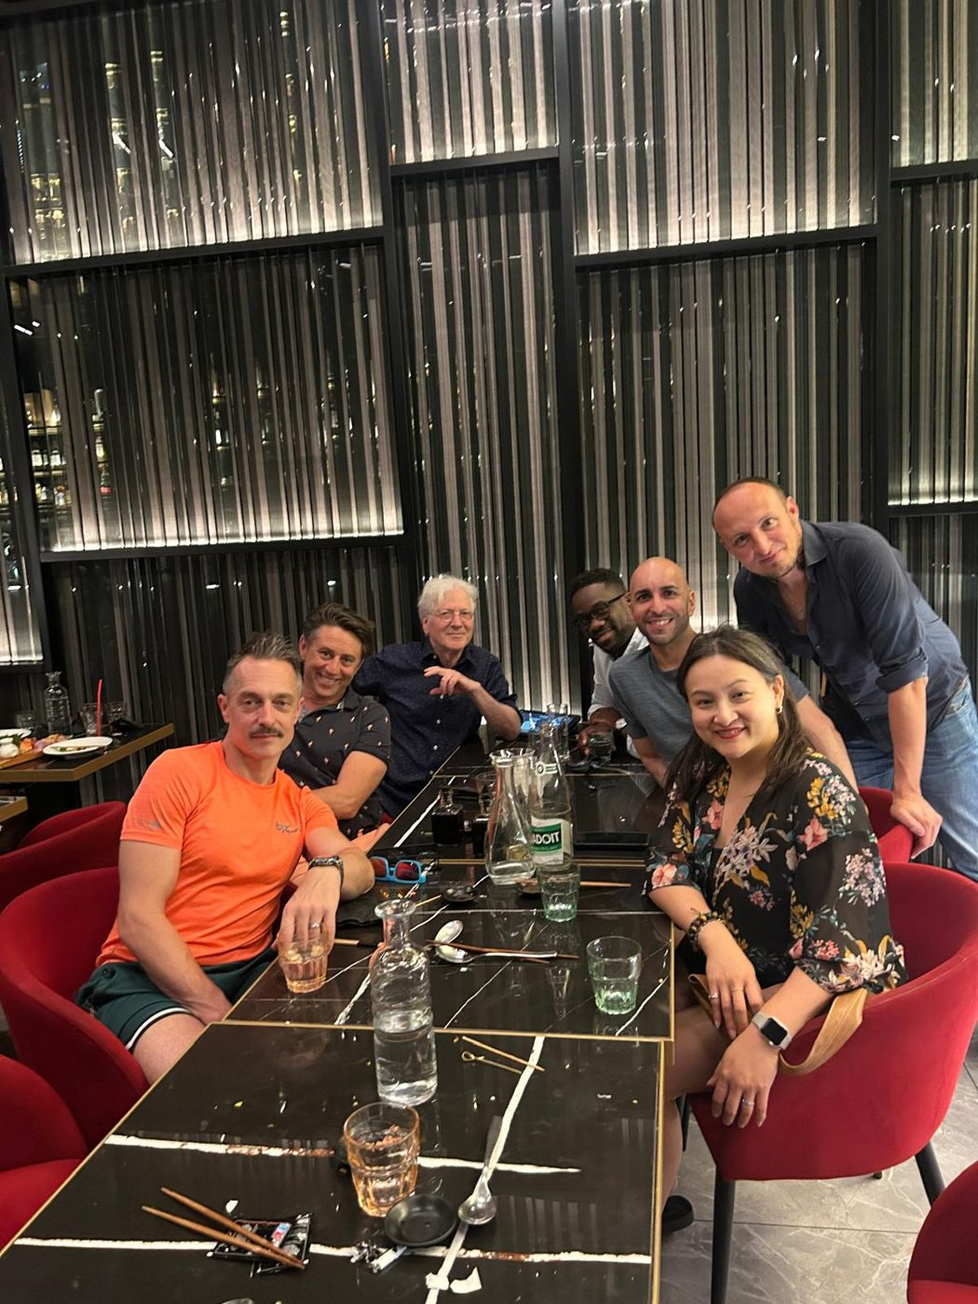
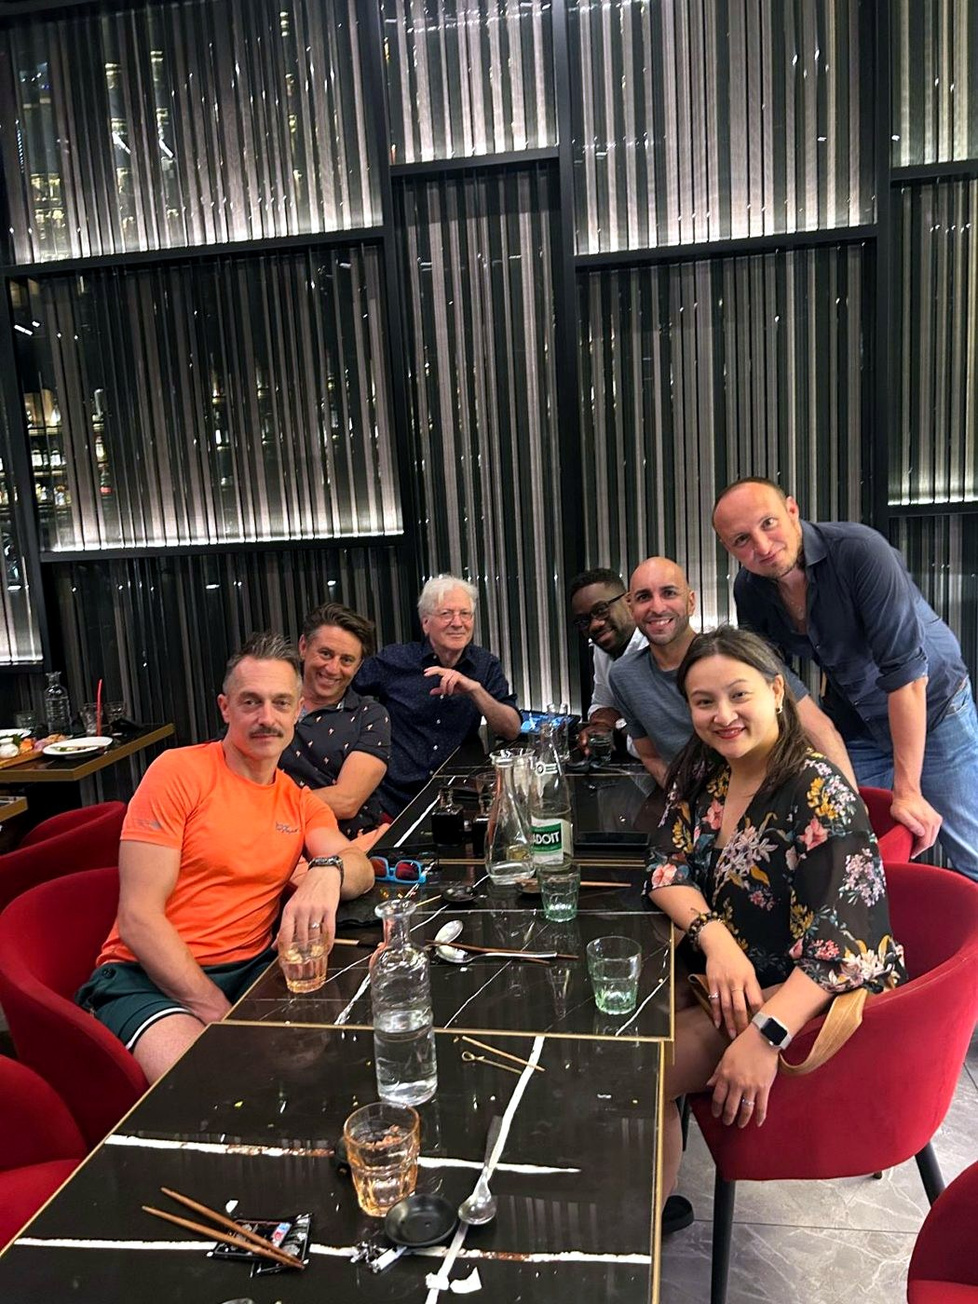
V4 : ouverture lisible, histoire en diaporama, citations corrigées, boîte à outils, photos retouchées

diff --git a/index.html b/index.html
@@ -20,7 +20,7 @@
   <link rel="icon" href="favicon.svg" type="image/svg+xml">
   <link rel="preconnect" href="https://fonts.googleapis.com">
   <link rel="preconnect" href="https://fonts.gstatic.com" crossorigin>
-  <link href="https://fonts.googleapis.com/css2?family=Fraunces:ital,opsz,wght@0,9..144,400;0,9..144,600;1,9..144,400&family=Inter:wght@400;500;600&display=swap" rel="stylesheet">
+  <link href="https://fonts.googleapis.com/css2?family=Fraunces:ital,opsz,wght,WONK@0,9..144,400,0;0,9..144,600,0;1,9..144,400,0&family=Inter:wght@400;500;600&display=swap" rel="stylesheet">
   <link rel="stylesheet" href="style.css">
 </head>
 <body>
@@ -43,21 +43,25 @@
   <main>
 
     <!-- Ouverture -->
-    <section class="hero-full">
-      <img class="hero-bg" src="img/notion/guiren.jpg" alt="Un dîner de l'Aftermind chez Guiren, janvier 2026" width="1600" height="1200">
-      <div class="hero-shade" aria-hidden="true"></div>
-      <div class="wrap hero-content">
-        <p class="eyebrow">Paris · depuis juin 2025 · sur invitation</p>
-        <h1>Un cercle privé d'entrepreneurs et de créateurs.</h1>
-        <p class="lead">On vient pour créer du lien, s'entraider et avancer ensemble. La confiance d'abord. Le business, s'il vient, vient après.</p>
-        <a class="next" href="#calendrier">
-          <span class="next-label">Le cercle revient · prochain dîner</span>
-          <span class="next-date">Jeudi 10 décembre 2026, 19&nbsp;h&nbsp;30</span>
-          <span class="next-note">Le lieu est donné aux membres dans le groupe.</span>
-        </a>
+    <section class="hero-v3">
+      <div class="wrap">
+        <div class="hero-v3-text reveal">
+          <p class="eyebrow">Paris · depuis juin 2025 · sur invitation</p>
+          <h1>Un cercle privé d'entrepreneurs et de créateurs.</h1>
+          <div class="hero-v3-row">
+            <p class="lead">On vient pour créer du lien, s'entraider et avancer ensemble. La confiance d'abord. Le business, s'il vient, vient après.</p>
+            <a class="next" href="#calendrier">
+              <span class="next-label">Le cercle revient · prochain dîner</span>
+              <span class="next-date">Jeudi 10 décembre 2026, 19&nbsp;h&nbsp;30</span>
+              <span class="next-note">Le lieu est donné aux membres dans le groupe.</span>
+            </a>
+          </div>
+        </div>
+        <figure class="hero-v3-photo reveal">
+          <img src="img/notion/guiren.jpg" alt="Un dîner de l'Aftermind chez Guiren, janvier 2026" width="1600" height="1200">
+          <figcaption>Chez Guiren, janvier 2026</figcaption>
+        </figure>
       </div>
-      <p class="hero-credit">Chez Guiren, janvier 2026</p>
-      <a class="hero-scroll" href="#histoire" aria-label="Descendre vers l'histoire"><span></span></a>
     </section>
 
     <!-- Chiffres -->
@@ -72,49 +76,56 @@
 
     <!-- Histoire -->
     <section id="histoire" class="block">
-      <div class="wrap two-col">
-        <div class="sticky-head reveal">
-          <p class="kicker">L'histoire</p>
-          <h2>Un test d'un mois, devenu un cercle.</h2>
-          <p class="muted">Quand on construit seul, on manque de gens à qui parler vraiment. L'Aftermind est né de ce constat.</p>
+      <div class="wrap">
+        <div class="story-head">
+          <div class="reveal">
+            <p class="kicker">L'histoire</p>
+            <h2>Un test d'un mois, devenu un cercle.</h2>
+          </div>
+          <div class="story-nav">
+            <button type="button" class="story-btn" data-dir="-1" aria-label="Précédent">‹</button>
+            <button type="button" class="story-btn" data-dir="1" aria-label="Suivant">›</button>
+          </div>
         </div>
-        <ol class="timeline">
-          <li class="reveal">
-            <span class="when">11 juin 2025</span>
-            <h3>Un message à 10 personnes</h3>
-            <p>« Un cercle restreint. 10 personnes. Une énergie unique. » Le cercle commence comme un test, pour un mois.</p>
-          </li>
-          <li class="reveal">
-            <span class="when">20 juin 2025</span>
-            <h3>La première soirée</h3>
-            <p>Un membre illusionniste ouvre son spectacle au groupe. On se rencontre enfin en vrai.</p>
-          </li>
-          <li class="reveal">
-            <span class="when">12 juillet 2025</span>
-            <h3>Le premier dîner</h3>
-            <p>Sept couverts, deux heures de table, et l'envie de recommencer.</p>
-          </li>
-          <li class="reveal">
-            <span class="when">Automne 2025</span>
-            <h3>L'entraide prend forme</h3>
-            <p>Un live chaque premier mercredi : on expose un blocage, le collectif répond. Un lieu de tournage trouvé en trente secondes, des mises en relation, des déclics.</p>
-          </li>
-          <li class="reveal">
-            <span class="when">12 mai 2026</span>
-            <h3>40 membres</h3>
-            <p>Des fondateurs, des auteurs, des coachs, des artistes. Chaque entrée se fait sur invitation.</p>
-          </li>
-          <li class="reveal">
-            <span class="when">24 juin 2026</span>
-            <h3>22 à table</h3>
-            <p>La plus grande soirée du cercle, pour un double anniversaire.</p>
-          </li>
-          <li class="reveal now">
-            <span class="when">10 décembre 2026</span>
-            <h3>Le retour</h3>
-            <p>Une règle simple : un dîner chaque deuxième jeudi du mois. La date est toujours connue à l'avance.</p>
-          </li>
-        </ol>
+        <div class="story" id="story" tabindex="0" aria-label="L'histoire du cercle, en diaporama">
+          <article class="slide">
+            <div class="slide-media"><div class="slide-mark"><svg viewBox="0 0 32 32" aria-hidden="true"><use href="#clover"/></svg></div></div>
+            <div class="slide-body"><span class="when">11 juin 2025</span><h3>Un message à 10 personnes</h3><p>«&nbsp;Un cercle restreint. 10 personnes. Une énergie unique.&nbsp;» Le cercle commence comme un test, pour un mois.</p></div>
+          </article>
+          <article class="slide">
+            <div class="slide-media"><img src="img/soirees/premiere-soiree-juin-2025.jpg" alt="" loading="lazy"></div>
+            <div class="slide-body"><span class="when">20 juin 2025</span><h3>La première soirée</h3><p>Un membre illusionniste ouvre son spectacle au groupe. On se rencontre enfin en vrai.</p></div>
+          </article>
+          <article class="slide">
+            <div class="slide-media"><img src="img/soirees/diner-juillet-2025.jpg" alt="" loading="lazy"></div>
+            <div class="slide-body"><span class="when">12 juillet 2025</span><h3>Le premier dîner</h3><p>Sept couverts, deux heures de table, et l'envie de recommencer.</p></div>
+          </article>
+          <article class="slide">
+            <div class="slide-media"><img src="img/soirees/tablee-septembre-2025.jpg" alt="" loading="lazy"></div>
+            <div class="slide-body"><span class="when">Septembre 2025</span><h3>Les tablées s'allongent</h3><p>Neuf, puis dix convives. Les tables sont composées pour que les bonnes personnes se rencontrent.</p></div>
+          </article>
+          <article class="slide">
+            <div class="slide-media"><img src="img/soirees/diner-octobre-2025.jpg" alt="" loading="lazy"></div>
+            <div class="slide-body"><span class="when">Automne 2025</span><h3>L'entraide prend forme</h3><p>Un live chaque premier mercredi. Un lieu de tournage trouvé en trente secondes, des intros, des déclics.</p></div>
+          </article>
+          <article class="slide">
+            <div class="slide-media"><img src="img/notion/guiren.jpg" alt="" loading="lazy"></div>
+            <div class="slide-body"><span class="when">15 janvier 2026</span><h3>Un invité surprise</h3><p>Chez Guiren, le cofondateur de BonneGueule rejoint la table.</p></div>
+          </article>
+          <article class="slide">
+            <div class="slide-media"><div class="slide-mark"><svg viewBox="0 0 32 32" aria-hidden="true"><use href="#clover"/></svg></div></div>
+            <div class="slide-body"><span class="when">12 mai 2026</span><h3>40 membres</h3><p>Des fondateurs, des auteurs, des coachs, des artistes. Chaque entrée se fait sur invitation.</p></div>
+          </article>
+          <article class="slide">
+            <div class="slide-media"><img src="img/soirees/terrasse-septembre-2026.jpg" alt="" loading="lazy"></div>
+            <div class="slide-body"><span class="when">Septembre 2026</span><h3>Le spontané</h3><p>Un apéro lancé par une membre, un verre en terrasse. Le cercle vit aussi sans calendrier.</p></div>
+          </article>
+          <article class="slide slide-now">
+            <div class="slide-media"><div class="slide-mark"><svg viewBox="0 0 32 32" aria-hidden="true"><use href="#clover"/></svg></div></div>
+            <div class="slide-body"><span class="when">10 décembre 2026</span><h3>Le retour</h3><p>Une règle simple : un dîner chaque deuxième jeudi. La date est toujours connue à l'avance.</p></div>
+          </article>
+        </div>
+        <div class="story-dots" id="story-dots" aria-hidden="true"></div>
       </div>
     </section>
 
@@ -124,15 +135,12 @@
         <p class="kicker reveal">Les soirées</p>
         <h2 class="reveal">Ce que ça donne, un jeudi soir.</h2>
         <div class="gallery">
-          <figure class="g-wide reveal"><img src="img/soirees/apero-septembre-2026.jpg" alt="Un apéro entre membres, septembre 2026" loading="lazy"></figure>
-          <figure class="g-tall reveal"><img src="img/assiettes.jpg" alt="Des assiettes et des verres sur une table sombre" loading="lazy"></figure>
-          <figure class="reveal"><img src="img/soirees/soiree-septembre-2025.jpg" alt="Des membres réunis autour d'une table, septembre 2025" loading="lazy"></figure>
-          <figure class="reveal"><img src="img/soirees/diner-octobre-2025.jpg" alt="Un dîner du cercle, octobre 2025" loading="lazy"></figure>
+          <figure class="g-wide g-tall reveal"><img src="img/soirees/soiree-septembre-2025.jpg" alt="Une soirée du cercle, septembre 2025" loading="lazy"></figure>
+          <figure class="g-tall reveal"><img src="img/assiettes.jpg" alt="Des assiettes sur une table sombre" loading="lazy"></figure>
+          <figure class="reveal"><img src="img/soirees/apero-septembre-2026.jpg" alt="Un apéro entre membres, septembre 2026" loading="lazy"></figure>
           <figure class="g-tall reveal"><img src="img/salle-cafe.jpg" alt="Une salle de café parisien aux moulures dorées" loading="lazy"></figure>
-          <figure class="reveal"><img src="img/soirees/premiere-soiree-juin-2025.jpg" alt="La première soirée du cercle, juin 2025" loading="lazy"></figure>
-          <figure class="g-wide reveal"><img src="img/soirees/terrasse-septembre-2026.jpg" alt="Des membres en terrasse, septembre 2026" loading="lazy"></figure>
-          <figure class="g-tall reveal"><img src="img/soirees/diner-juillet-2025.jpg" alt="Le premier dîner, juillet 2025" loading="lazy"></figure>
         </div>
+        <p class="aside reveal">Plus de photos à venir après le dîner du 10 décembre.</p>
       </div>
     </section>
 
@@ -219,18 +227,53 @@ Délai : …</pre>
       </div>
     </section>
 
+    <!-- Outils -->
+    <section class="block tools-block alt" aria-label="La boîte à outils du membre">
+      <div class="wrap">
+        <p class="kicker reveal">La boîte à outils du membre</p>
+        <h2 class="reveal">Trois gestes pour faire vivre le cercle.</h2>
+        <div class="tools">
+          <article class="tool reveal">
+            <h3>Demander de l'aide</h3>
+            <p>Copie, complète, colle dans le groupe.</p>
+            <pre class="tpl" id="tpl-aide">Appel Aftermind
+Je cherche : …
+Pour : …
+Délai : …</pre>
+            <button type="button" class="btn-copy" data-target="tpl-aide">Copier le modèle</button>
+          </article>
+          <article class="tool reveal">
+            <h3>Proposer un format</h3>
+            <p>Un coworking, un sport, une sortie : tu le portes, le cercle relaie.</p>
+            <pre class="tpl" id="tpl-format">Idée Aftermind
+Quoi : …
+Quand : …
+Où : …
+Places : …</pre>
+            <button type="button" class="btn-copy" data-target="tpl-format">Copier le modèle</button>
+          </article>
+          <article class="tool reveal">
+            <h3>Ne rater aucun dîner</h3>
+            <p>Le deuxième jeudi de chaque mois, à 19&nbsp;h&nbsp;30, ajouté d'un clic à ton agenda.</p>
+            <a class="btn-cal" href="aftermind-diners.ics" download>Ajouter à mon agenda</a>
+            <p class="tool-note">Tu veux présenter quelqu'un ? Écris à Onur, il décide de l'invitation.</p>
+          </article>
+        </div>
+      </div>
+    </section>
+
     <!-- Citations -->
     <section class="block quotes-block" aria-label="Ce que les membres en disent">
       <div class="wrap">
         <p class="kicker reveal">Dans le groupe, le lendemain</p>
         <div class="quotes">
-          <blockquote class="q-big reveal"><p>« De l'authentique, du brut, du bon. On a ri, on a parlé vrai. »</p><footer><span class="q-av" data-slug="rosalie-bun-ung"><img src="img/membres/rosalie-bun-ung.jpg" alt="" loading="lazy"></span><span><strong>Rosalie Bun-Ung</strong><cite>Coach business et mindset · après la première soirée, juin 2025</cite></span></footer></blockquote>
-          <blockquote class="reveal"><p>« Il y a de la magie à se retrouver. On s'apprend. »</p><footer><span class="q-av" data-slug="jean-sommer"><img src="img/membres/jean-sommer.jpg" alt="" loading="lazy"></span><span><strong>Jean Sommer</strong><cite>Coach vocal, auteur · octobre 2025</cite></span></footer></blockquote>
-          <blockquote class="reveal"><p>« Une belle dream team de singularité pétillante. »</p><footer><span class="q-av" data-slug="cyril-bechacq"><img src="img/membres/cyril-bechacq.jpg" alt="" loading="lazy"></span><span><strong>Cyril Béchacq</strong><cite>Thérapeute manuel · juin 2025</cite></span></footer></blockquote>
-          <blockquote class="reveal"><p>« Génial de se retrouver dans un contexte qui incarne si bien le pouvoir des pairs qui grandissent ensemble. »</p><footer><span class="q-av" data-slug="diane-lenne"><img src="img/membres/diane-lenne.jpg" alt="" loading="lazy"></span><span><strong>Diane Lenne</strong><cite>CEO de We Are Peers · octobre 2025</cite></span></footer></blockquote>
-          <blockquote class="reveal"><p>« De bonnes vibes, du bon jus de crâne. What else ? »</p><footer><span class="q-av" data-slug="gwladys-ramette"><img src="img/membres/gwladys-ramette.jpg" alt="" loading="lazy"></span><span><strong>Gwladys Ramette</strong><cite>Coach carrière · septembre 2025</cite></span></footer></blockquote>
-          <blockquote class="reveal"><p>« Ravi à l'idée de revoir des têtes connues et d'en découvrir de nouvelles. »</p><footer><span class="q-av" data-slug="alain-bosetti"><span>AB</span></span><span><strong>Alain Bosetti</strong><cite>Président d'En Personne · décembre 2025</cite></span></footer></blockquote>
-          <blockquote class="reveal"><p>« Une belle première soirée. Bravo pour l'initiative. »</p><footer><span class="q-av" data-slug="rodolphe-gagetta"><span>RG</span></span><span><strong>Rodolphe Gagetta</strong><cite>Directeur de production · juin 2025</cite></span></footer></blockquote>
+          <blockquote class="q-big reveal"><p>«&nbsp;De l'authentique, du brut, du bon. On a ri, on a parlé vrai.&nbsp;»</p><footer><span class="q-av" data-slug="rosalie-bun-ung"><img src="img/membres/rosalie-bun-ung.jpg" alt="" loading="lazy"></span><span><strong>Rosalie Bun-Ung</strong><cite>Coach business et mindset · après la première soirée, juin 2025</cite></span></footer></blockquote>
+          <blockquote class="reveal"><p>«&nbsp;Il y a de la magie à se retrouver. On s'apprend.&nbsp;»</p><footer><span class="q-av" data-slug="jean-sommer"><img src="img/membres/jean-sommer.jpg" alt="" loading="lazy"></span><span><strong>Jean Sommer</strong><cite>Coach vocal, auteur · octobre 2025</cite></span></footer></blockquote>
+          <blockquote class="reveal"><p>«&nbsp;Une belle dream team de singularité pétillante.&nbsp;»</p><footer><span class="q-av" data-slug="cyril-bechacq"><img src="img/membres/cyril-bechacq.jpg" alt="" loading="lazy"></span><span><strong>Cyril Béchacq</strong><cite>Thérapeute manuel · juin 2025</cite></span></footer></blockquote>
+          <blockquote class="reveal"><p>«&nbsp;Génial de se retrouver dans un contexte qui incarne si bien le pouvoir des pairs qui grandissent ensemble.&nbsp;»</p><footer><span class="q-av" data-slug="diane-lenne"><img src="img/membres/diane-lenne.jpg" alt="" loading="lazy"></span><span><strong>Diane Lenne</strong><cite>CEO de We Are Peers · octobre 2025</cite></span></footer></blockquote>
+          <blockquote class="reveal"><p>«&nbsp;De bonnes vibes, du bon jus de crâne. What else ?&nbsp;»</p><footer><span class="q-av" data-slug="gwladys-ramette"><img src="img/membres/gwladys-ramette.jpg" alt="" loading="lazy"></span><span><strong>Gwladys Ramette</strong><cite>Coach carrière · septembre 2025</cite></span></footer></blockquote>
+          <blockquote class="reveal"><p>«&nbsp;Ravi à l'idée de revoir des têtes connues et d'en découvrir de nouvelles.&nbsp;»</p><footer><span class="q-av" data-slug="alain-bosetti"><span>AB</span></span><span><strong>Alain Bosetti</strong><cite>Président d'En Personne · décembre 2025</cite></span></footer></blockquote>
+          <blockquote class="reveal"><p>«&nbsp;Une belle première soirée. Bravo pour l'initiative.&nbsp;»</p><footer><span class="q-av" data-slug="rodolphe-gagetta"><span>RG</span></span><span><strong>Rodolphe Gagetta</strong><cite>Directeur de production · juin 2025</cite></span></footer></blockquote>
         </div>
       </div>
     </section>
@@ -373,8 +416,8 @@ Délai : …</pre>
         <div class="reveal">
           <p class="kicker">Le mot de l'hôte</p>
           <blockquote class="host-quote">
-            <p>« J'ai lancé l'Aftermind en juin 2025 avec un message à dix personnes. Je construisais seul, et il me manquait une table où l'on parle vrai.</p>
-            <p>Mon rôle est simple : donner une date, composer les tables, tenir le cadre. Le tien l'est aussi : venir, et oser demander. »</p>
+            <p>«&nbsp;J'ai lancé l'Aftermind en juin 2025 avec un message à dix personnes. Je construisais seul, et il me manquait une table où l'on parle vrai.</p>
+            <p>Mon rôle est simple : donner une date, composer les tables, tenir le cadre. Le tien l'est aussi : venir, et oser demander.&nbsp;»</p>
           </blockquote>
           <p class="host-sign">Onur Karapinar <span>· fondateur et hôte</span></p>
         </div>

diff --git a/style.css b/style.css
@@ -411,3 +411,57 @@ img.avatar { object-fit: cover; padding: 0; }
 .host-sign { margin: 18px 0 0; font-weight: 600; }
 .host-sign span { font-weight: 400; color: var(--ink-soft); }
 @media (max-width: 760px) { .host-inner { grid-template-columns: 1fr; gap: 28px; text-align: center; } .host-photo { margin: 0 auto; width: 160px; height: 160px; } }
+
+/* ===== Version 4 ===== */
+/* Italiques sans lettres « wonky » */
+* { font-variation-settings: "WONK" 0; }
+
+/* Ouverture lisible : texte puis grande photo */
+.hero-v3 { padding: 64px 0 40px; }
+.hero-v3 h1 { max-width: 20ch; }
+.hero-v3-row { display: grid; grid-template-columns: 1.2fr 1fr; gap: 40px; align-items: end; margin-top: 8px; }
+.hero-v3-row .lead { margin: 0; }
+.hero-v3-row .next { margin-top: 0; justify-self: end; }
+.hero-v3-photo { position: relative; margin: 40px 0 0; }
+.hero-v3-photo img { width: 100%; aspect-ratio: 16 / 9; object-fit: cover; object-position: center 62%; border-radius: 24px; box-shadow: 0 40px 80px -40px rgba(20, 48, 42, .55); }
+.hero-v3-photo figcaption { position: absolute; left: 20px; bottom: 18px; background: rgba(244, 239, 228, .92); color: var(--ink); font: italic 400 0.95rem "Fraunces", serif; padding: 8px 14px; border-radius: 999px; }
+@media (max-width: 900px) { .hero-v3-row { grid-template-columns: 1fr; gap: 24px; } .hero-v3-row .next { justify-self: start; } .hero-v3-photo img { aspect-ratio: 4 / 3; } }
+@media (max-width: 640px) { .hero-v3 { padding: 40px 0 24px; } .hero-v3-photo { margin-top: 28px; } .hero-v3-photo img { border-radius: 16px; } .hero-v3-photo figcaption { left: 10px; bottom: 10px; font-size: 0.8rem; } }
+
+/* Citations : plus droites, plus lisibles */
+.quotes p { font-style: normal; font-weight: 400; letter-spacing: -0.005em; }
+.quotes .q-big p { font-size: clamp(1.5rem, 3vw, 2.2rem); max-width: 30ch; }
+
+/* Histoire en diaporama */
+.story-head { display: flex; justify-content: space-between; align-items: end; gap: 24px; margin-bottom: 8px; }
+.story-nav { display: flex; gap: 10px; }
+.story-btn { width: 48px; height: 48px; border-radius: 50%; border: 1px solid var(--line); background: var(--card); color: var(--ink); font: 400 1.6rem/1 "Fraunces", serif; cursor: pointer; transition: background .2s ease, color .2s ease; }
+.story-btn:hover { background: var(--ink); color: var(--bg); }
+.story { display: grid; grid-auto-flow: column; grid-auto-columns: minmax(300px, 32%); gap: 20px; overflow-x: auto; scroll-snap-type: x mandatory; scroll-behavior: smooth; padding: 16px 2px 24px; scrollbar-width: none; }
+.story::-webkit-scrollbar { display: none; }
+.slide { scroll-snap-align: start; background: var(--card); border: 1px solid var(--line); border-radius: var(--radius); overflow: hidden; display: flex; flex-direction: column; }
+.slide-media { aspect-ratio: 4 / 3; background: var(--ink); }
+.slide-media img { width: 100%; height: 100%; object-fit: cover; }
+.slide-mark { width: 100%; height: 100%; display: grid; place-items: center; background: radial-gradient(circle at 50% 40%, #1f4a40, var(--ink)); }
+.slide-mark svg { width: 72px; height: 72px; color: var(--gold-light); }
+.slide-body { padding: 20px 22px 24px; }
+.slide-body .when { display: block; font-size: 0.8rem; font-weight: 600; color: var(--accent); letter-spacing: .04em; margin-bottom: 6px; }
+.slide-body p { color: var(--ink-soft); margin: 0; }
+.slide-now { border-color: var(--accent); }
+.slide-now .slide-mark { background: radial-gradient(circle at 50% 40%, #3a5e3f, var(--ink)); }
+.story-dots { display: flex; justify-content: center; gap: 8px; }
+.story-dots i { width: 8px; height: 8px; border-radius: 50%; background: var(--line); transition: background .2s ease, width .2s ease; }
+.story-dots i.on { width: 22px; border-radius: 4px; background: var(--accent); }
+@media (max-width: 640px) { .story { grid-auto-columns: 84%; } .story-btn { width: 40px; height: 40px; } }
+
+/* Boîte à outils */
+.tools { display: grid; grid-template-columns: repeat(3, 1fr); gap: 20px; margin-top: 12px; }
+.tool { background: var(--card); border: 1px solid var(--line); border-radius: var(--radius); padding: 26px; display: flex; flex-direction: column; gap: 10px; }
+.tool h3 { margin: 0; }
+.tool p { margin: 0; color: var(--ink-soft); }
+.tpl { margin: 4px 0 0; padding: 14px 16px; border-radius: 10px; background: var(--ink); color: var(--bg); font: 500 0.88rem/1.7 ui-monospace, "SF Mono", Menlo, monospace; white-space: pre-wrap; }
+.btn-copy { align-self: flex-start; margin-top: auto; padding: 10px 16px; border-radius: 999px; border: 1px solid var(--ink); background: transparent; color: var(--ink); font: 600 0.88rem "Inter", sans-serif; cursor: pointer; transition: background .2s ease, color .2s ease; }
+.btn-copy:hover, .btn-copy.done { background: var(--ink); color: var(--bg); }
+.tool .btn-cal { align-self: flex-start; margin-top: auto; }
+.tool-note { font-size: 0.85rem; }
+@media (max-width: 900px) { .tools { grid-template-columns: 1fr; } }

diff --git a/site.js b/site.js
@@ -106,3 +106,37 @@
     document.querySelectorAll("[data-count]").forEach(function (el) { co.observe(el); });
   }
 })();
+
+// Diaporama de l'histoire et boutons « Copier ».
+(function () {
+  var story = document.getElementById("story");
+  if (story) {
+    var slides = story.querySelectorAll(".slide");
+    var dots = document.getElementById("story-dots");
+    slides.forEach(function () { dots.appendChild(document.createElement("i")); });
+    function majPoints() {
+      var w = slides[0].getBoundingClientRect().width + 20;
+      var i = Math.round(story.scrollLeft / w);
+      [].forEach.call(dots.children, function (d, k) { d.classList.toggle("on", k === i); });
+    }
+    story.addEventListener("scroll", function () { requestAnimationFrame(majPoints); });
+    majPoints();
+    document.querySelectorAll(".story-btn").forEach(function (b) {
+      b.addEventListener("click", function () {
+        var w = slides[0].getBoundingClientRect().width + 20;
+        story.scrollBy({ left: w * +b.dataset.dir, behavior: "smooth" });
+      });
+    });
+    story.addEventListener("keydown", function (e) {
+      if (e.key === "ArrowRight") story.scrollBy({ left: 300 });
+      if (e.key === "ArrowLeft") story.scrollBy({ left: -300 });
+    });
+  }
+  document.querySelectorAll(".btn-copy").forEach(function (b) {
+    b.addEventListener("click", function () {
+      var t = document.getElementById(b.dataset.target).textContent;
+      var fin = function () { var old = b.textContent; b.textContent = "Copié"; b.classList.add("done"); setTimeout(function () { b.textContent = old; b.classList.remove("done"); }, 1800); };
+      if (navigator.clipboard) navigator.clipboard.writeText(t).then(fin, fin); else fin();
+    });
+  });
+})();
